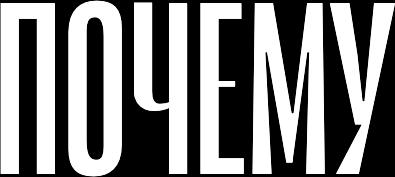
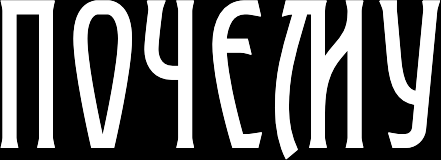
Align reviewed title lettering and combine selected style nine fonts

diff --git a/tests/test_editorial_font_selection.py b/tests/test_editorial_font_selection.py
@@ -1,5 +1,3 @@
-import cv2
-import numpy as np
 import pytest
 
 from app import editorial_approved
@@ -7,37 +5,60 @@ from app import editorial_font_selection as fonts
 from app.editorial_titles import fallback_parts
 
 
-def test_selected_typefaces_and_reference_coral():
+def test_selected_typefaces_and_original_colors():
     styles = fonts.selection()['styles']
     assert {sid: style['variant'] for sid, style in styles.items()} == {
-        '1': 'А', '2': 'В', '3': None, '5': 'Б', '9': 'А',
+        '1': 'А', '2': 'В', '3': None, '5': 'Б', '9': 'Б / А / В',
     }
     assert styles['1']['ru'][0]['color'] == '#EC5424'
     assert styles['1']['en'][0]['color'] == '#EA5527'
-    assert styles['9']['ru'][2]['text'] == 'ты?'
+    assert styles['3']['ru'][2]['color'] == '#FC3259'
+    assert styles['3']['en'][2]['color'] == '#FC3258'
     assert styles['2']['fonts'] == ['young', 'tex', 'bebB']
+    assert styles['9']['fonts'] == ['cyr', 'ci', 'young']
+    assert styles['9']['ru'][2]['text'] == 'ты?'
 
 
-@pytest.mark.parametrize('lang,title,counts', [('ru','Почему не ты?', [2,2]),
-                                               ('en','Why not you?', [1,2])])
-def test_underlines_are_continuous_and_timed_with_their_word(lang, title, counts):
+@pytest.mark.parametrize('lang,title', [('ru', 'Почему не ты?'), ('en', 'Why not you?')])
+@pytest.mark.parametrize('sid', ['3', '9'])
+def test_each_foreground_word_appears_once_without_an_underline(sid, lang, title):
     parts = tuple(enumerate(fallback_parts(title)))
-    for role, count in enumerate(counts, start=1):
-        layers = fonts.layers('3', lang, parts, role)
-        assert len(layers) == count
-        if count == 2:
-            _, mask = layers[1]
-            assert cv2.connectedComponents((np.array(mask) >= 128).astype('uint8'))[0] == 2
-    style = {'editorial_style_id':'3','editorial_font_revision':fonts.REVISION}
-    timing = [{'text':word,'start':i*.5,'end':(i+1)*.5} for i,word in parts]
-    cue = {'language':lang,'text':title,'start_sec':0,'end_sec':2,'word_timing':timing}
-    lines = editorial_approved.ass_events(cue,style,720,1280,'Default')
-    assert sum(',0:00:00.50,' in line for line in lines if line.startswith('Dialogue: 2')) == counts[0]
-    assert sum(line.startswith('Dialogue: 2,0:00:01.00,') for line in lines) == counts[1]
+    for role in (1, 2):
+        assert len(fonts.layers(sid, lang, parts, role)) == 1
+    style = {'editorial_style_id': sid, 'editorial_font_revision': fonts.REVISION}
+    timing = [{'text': word, 'start': i * .5, 'end': (i + 1) * .5} for i, word in parts]
+    cue = {'language': lang, 'text': title, 'start_sec': 0, 'end_sec': 2, 'word_timing': timing}
+    events = editorial_approved.ass_events(cue, style, 720, 1280, 'Default')
+    starts = [line.split(',')[1] for line in events if line.startswith('Dialogue: 2,')]
+    assert starts == ['0:00:00.50', '0:00:01.00']
+
+
+@pytest.mark.parametrize('lang,title,min_gap,min_top', [
+    ('ru', 'Почему не ты?', 38, 600),
+    ('en', 'Why not you?', 20, 578),
+])
+def test_first_style_script_clears_the_face_and_connecting_word(lang, title, min_gap, min_top):
+    parts = tuple(enumerate(fallback_parts(title)))
+    upper = fonts.layers('1', lang, parts, 0)[0][1]  # Include the thin outline.
+    middle = fonts.layers('1', lang, parts, 1)[0][1]
+    left, top, right, _ = middle.getbbox()
+    script_above_word = upper.crop((left, 0, right, upper.height)).getbbox()
+    assert upper.getbbox()[1] >= min_top
+    assert script_above_word and top - script_above_word[3] >= min_gap
+
+
+@pytest.mark.parametrize('lang,title', [('ru', 'Почему не ты?'), ('en', 'Why not you?')])
+def test_ninth_style_displays_the_reference_cap_height_behind_the_subject(lang, title):
+    parts = tuple(enumerate(fallback_parts(title)))
+    upper = fonts.layers('9', lang, parts, 0)[0][1]
+    _, top, _, bottom = upper.getbbox()
+    assert 270 <= top <= 280
+    assert 558 <= bottom <= 568
 
 
 def test_lowercase_t_in_ninth_preset_even_after_uppercased_input():
-    text = ((0, 'ПОЧЕМУ'), (1, 'НЕ'), (2, 'ТЫ?'))
-    layers = fonts.layers('9', 'ru', text, 2)
-    assert len(layers) == 2
-    assert layers[0][1].getbbox() == fonts.layers('9', 'ru', tuple(enumerate('Почему не ты?'.split())), 2)[0][1].getbbox()
+    uppercase = ((0, 'ПОЧЕМУ'), (1, 'НЕ'), (2, 'ТЫ?'))
+    normal = tuple(enumerate('Почему не ты?'.split()))
+    upper_mask = fonts.layers('9', 'ru', uppercase, 2)[0][1]
+    normal_mask = fonts.layers('9', 'ru', normal, 2)[0][1]
+    assert upper_mask.tobytes() == normal_mask.tobytes()

diff --git a/app/editorial_font_selection.py b/app/editorial_font_selection.py
@@ -111,7 +111,7 @@ def _case(text, reference):
 
 def _box(sid, record, role, text, reference_title):
     if sid == '1' and not reference_title:
-        return ((40, 535, 680, 790), (50, 800, 230, 860), (40, 875, 680, 1110))[role]
+        return ((40, 600, 680, 790), (50, 800, 230, 860), (40, 875, 680, 1110))[role]
     if sid == '3' and not reference_title and role == 2:
         return (40, 815, 680, 1020)
     left, top, right, bottom = record['box']
@@ -124,7 +124,7 @@ def _box(sid, record, role, text, reference_title):
     return left, top, right, bottom
 
 
-def _size_and_position(mask, full, box, tilt):
+def _size_and_position(mask, full, box, tilt, fit):
     if tilt:
         rotated = full.rotate(tilt, Image.Resampling.BICUBIC, expand=True)
         crop = rotated.getbbox() or (0, 0, 1, 1)
@@ -134,25 +134,16 @@ def _size_and_position(mask, full, box, tilt):
     width, height = right - left, bottom - top
     ratio = min(width / full.width, height / full.height)
     size = (max(1, round(full.width * ratio)), max(1, round(full.height * ratio)))
+    if fit == 'reference':
+        # The selected script and display faces have different optical proportions.
+        # The reference word has an art-directed width and cap height in each language.
+        size = width, height
+    elif fit == 'tall':
+        # Keep shorter Russian headlines visible above the subject's hair. Limit
+        # stretching for long semantic parts whose width already fills the frame.
+        size = size[0], min(height, round(size[1] * 1.65))
     position = (left + (width - size[0]) // 2, top + (height - size[1]) // 2)
     return mask.resize(size, Image.Resampling.LANCZOS), position
-
-
-def _swash(record, ink, canonical):
-    spec = record['swash']
-    stroke = _asset(spec['file'])
-    left, top, right, _ = spec['box']
-    if canonical:
-        return stroke, (left, top)
-    # For new wording anchor the stroke below the actual ink, clear of descenders.
-    x, y, w, h = ink
-    ref_width = record['box'][2] - record['box'][0]
-    width = max(1, min(W - 32, round(w * stroke.width / ref_width)))
-    height = max(1, round(stroke.height * width / stroke.width))
-    center = (left + right) / 2
-    relative_center = (center - record['box'][0]) / ref_width
-    start = max(16, min(W - width - 16, round(x + w * relative_center - width / 2)))
-    return stroke.resize((width, height), Image.Resampling.LANCZOS), (start, min(H - height, y + h + 4))
 
 
 @lru_cache(maxsize=16)
@@ -176,18 +167,18 @@ def layers(sid, lang, parts, role, visible=None):
         mask = full if visible is None or visible >= len(frames) else _alpha(frames[visible - 1]).crop(crop)
     reference_title = all(t == records[r]['text'] for r, t in prepared) and len(prepared) == 3
     box = _box(sid, record, role, text, reference_title)
-    mask, (x, y) = _size_and_position(mask, full, box, 9 if sid == '1' and role == 0 else 0)
+    fit = 'contain'
+    if role == 0 and sid in ('1', '9') and reference_title:
+        fit = 'reference'
+    elif role == 0 and sid == '9' and lang == 'ru':
+        fit = 'tall'
+    mask, (x, y) = _size_and_position(mask, full, box, 9 if sid == '1' and role == 0 else 0, fit)
     face = Image.new('L', (W, H))
     face.paste(mask, (x, y))
     result = []
     if sid == '1' and role == 0:
         result.append(('#36251F', face.filter(ImageFilter.MaxFilter(3))))
     result.append((record['color'], face))
-    if 'swash' in record and (visible is None or visible >= len(text.split())):
-        stroke, position = _swash(record, (x, y, mask.width, mask.height), reference_title)
-        layer = Image.new('L', (W, H))
-        layer.paste(stroke, position)
-        result.append((record['swash']['color'], layer))
     return tuple(result)
 
 

diff --git a/fonts/EDITORIAL.md b/fonts/EDITORIAL.md
@@ -8,11 +8,24 @@ use their existing artwork in `editorial_approved/`.
 Both the preview and the final video use the same ASS paths. For the reference
 title, the paths come from the saved lettering masks. For other text, the renderer
 loads the exact font files in local Playwright Chromium and shapes each semantic
-part. The brush strokes in style 3 are separate masks and appear with the
-corresponding word. On a new render host, provision the manifest entries in
+part. Style 3 uses the bright pink lettering from its original sketch. Style 9
+uses TD Ciryulnik, Cormorant Garamond SemiBold Italic and The Youngest Script.
+Both use the letterforms without decorative underlines.
+On a new render host, provision the manifest entries in
 `fonts/editorial_local/` from the licensed desktop collection and install
 Playwright Chromium. The renderer checks each file against its recorded hash.
 See `docs/discipline-formats.md` for timing and automatic foreground compositing.
+
+## Visual review
+
+Send the real RU and EN frames to the project chat «Ревью оформления заголовков»
+for review when changing the look of a title. Supply the matching early sketch
+from `artifacts/editorial_titles/eight_real_drafts/`, the selected lettered
+variant from `font_research_nov20/reference-match/` in the same archive, and
+the production render for both the short title and a longer phrase.
+The reviewer compares the lettering, color, baseline, spacing and subject overlap
+on the images and records a decision for each style. Submit a new render for a
+style the reviewer returns for corrections.
 
 # Legacy presets (kept for older drafts)
 

diff --git a/docs/discipline-formats.md b/docs/discipline-formats.md
@@ -29,9 +29,10 @@ Semantic parts keep fixed positions; individual words reveal at their own
 ElevenLabs alignment starts when the headline matches the spoken opening.
 Unspoken titles remain static rather than receiving invented speech timing.
 
-Approved drawings are emitted as ASS paths, avoiding font substitution between
-preview and final rendering. Original «Почему не ты / Why not you» contours and
-ornaments are retained. Other phrases use the approved complete alphabets.
+Previews and final videos use the same ASS paths. New style selections use
+the typefaces and colors in `fonts/editorial_selected/selection.json`.
+Styles 3 and 9 show the lettering without decorative underlines. See
+[`fonts/EDITORIAL.md`](../fonts/EDITORIAL.md) for the reference files and review process.
 Styles 3/9 automatically place the upper semantic part behind the foreground
 character. BiRefNet builds a mask from the actual new footage every half-second;
 backward optical flow tracks it on every intermediate frame. A scene cut resets
